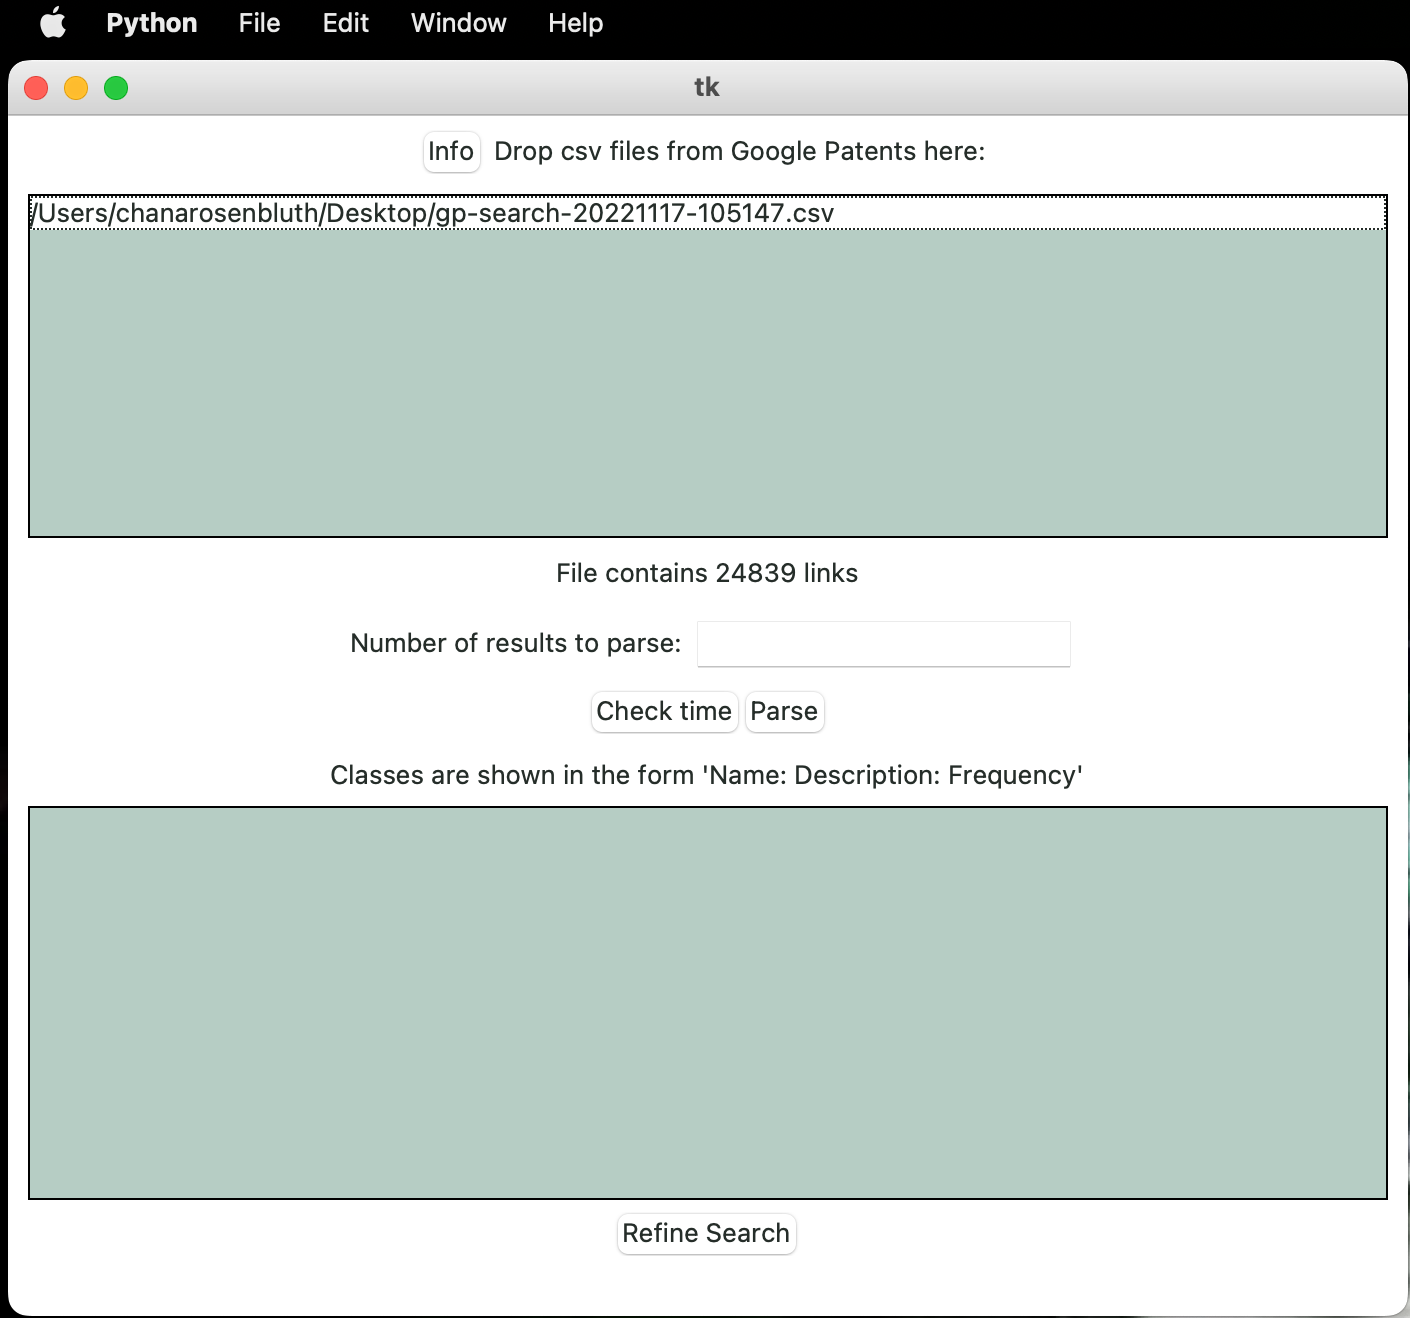
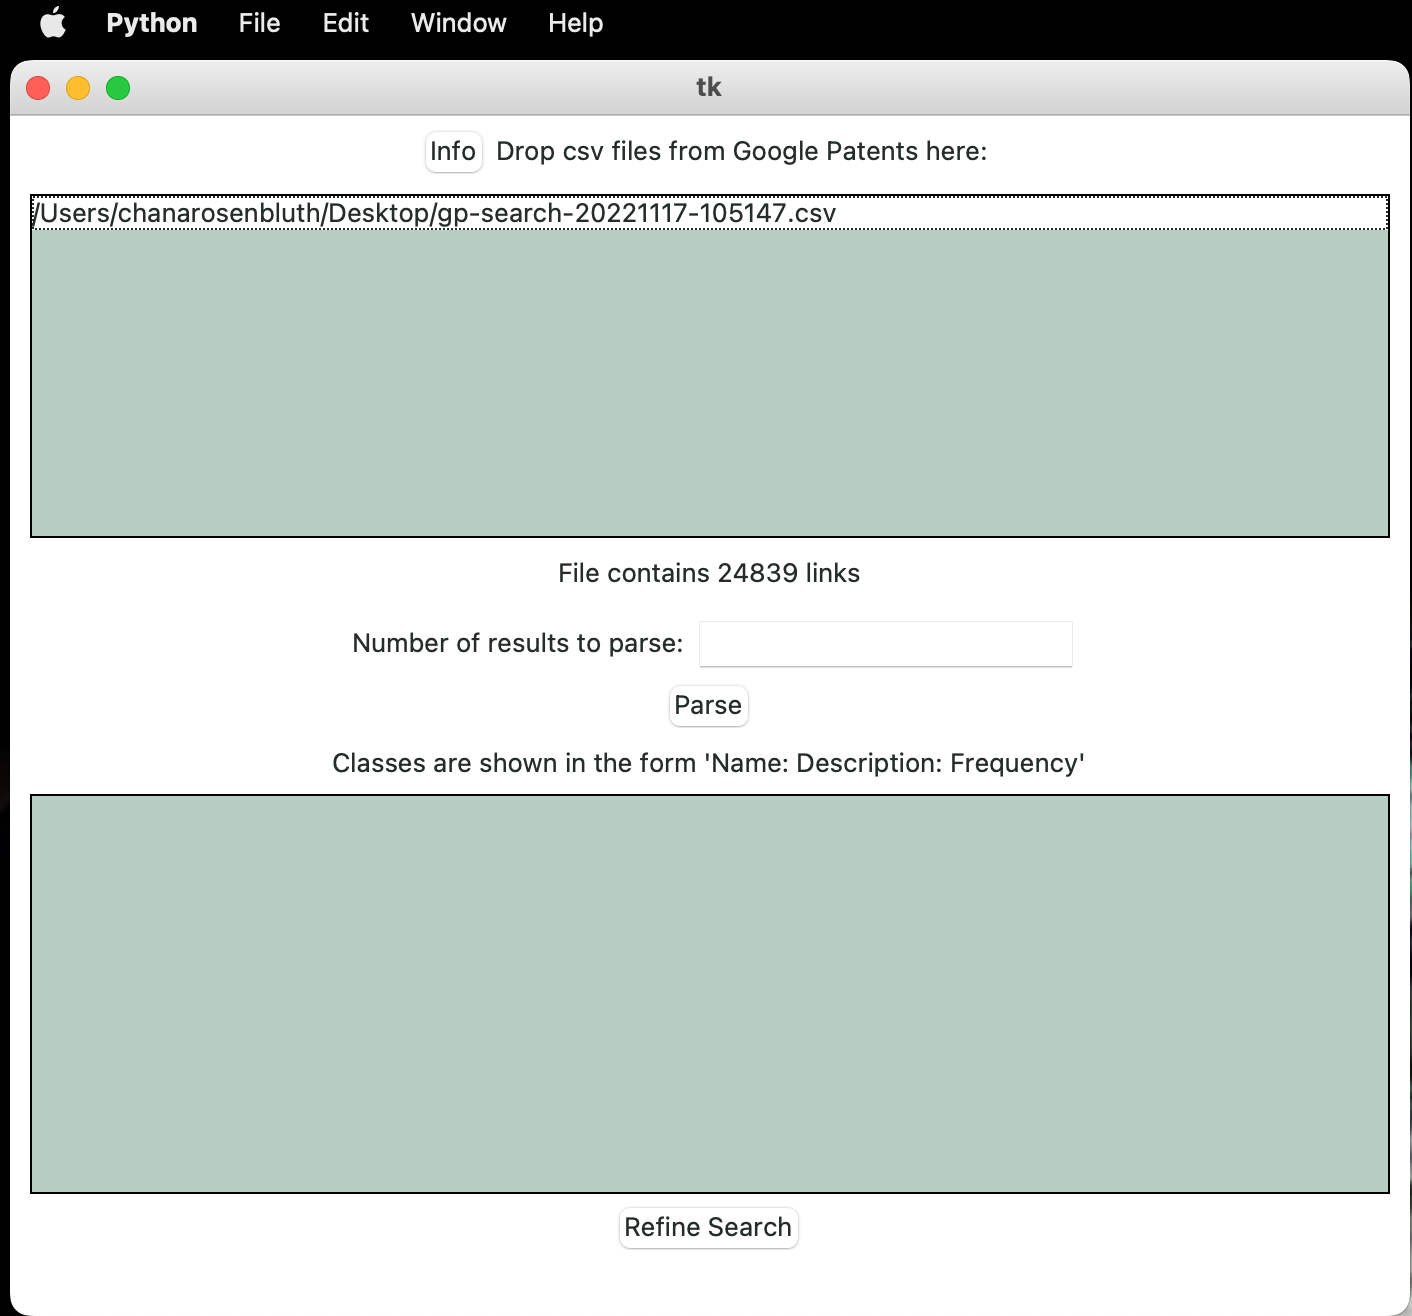
moved parse time warning into an ok/cancel messagebox

diff --git a/SearchApp/GUI.py b/SearchApp/GUI.py
@@ -74,20 +74,11 @@ class App(tk.Frame):
                                   fg=self.DARKGREEN)
         self.entry_box.pack(side=tk.RIGHT)
 
-        # Button area
-        self.button_frame = tk.Frame(self.parse_frame)
-        self.button_frame.pack(pady=3)
-        self.time_btn = tk.Button(self.button_frame,
-                                  text="Check time",
-                                  command=self.check_time,
-                                  fg=self.DARKGREEN)
-        self.time_btn.pack(side=tk.LEFT)
-        self.parse_btn = tk.Button(self.button_frame,
+        self.parse_btn = tk.Button(self.parse_frame,
                                    text="Parse",
                                    command=self.start_parse,
                                    fg=self.DARKGREEN)
-        self.parse_btn.pack(side=tk.RIGHT,
-                            pady=3)
+        self.parse_btn.pack(pady=3)
 
         # Listbox to hold the results of the parse
         self.list_show_label = tk.Label(self.parent,
@@ -143,7 +134,7 @@ class App(tk.Frame):
                         self.links.append(row[link_col])
                     line_count += 1
 
-    def check_time(self):
+    def start_parse(self):
         try:
             number = int(self.entry_box.get())
         except:
@@ -153,20 +144,10 @@ class App(tk.Frame):
                 number = min(number, len(self.links))
                 min_sec = number * self.time_lb
                 max_sec = number * self.time_ub
-                messagebox.showinfo("Info", f'Parsing should take between {min_sec} and {max_sec} seconds')
-            else:
-                messagebox.showerror("Error", "Please select a file to parse.")
-
-    def start_parse(self):
-        try:
-            number = int(self.entry_box.get())
-        except:
-            messagebox.showerror("Error", "Please enter a number of links to parse.")
-        else:
-            if self.links:
-                number = min(number, len(self.links))
-                self.list_show.delete("0", "end")
-                threading.Thread(target=self.parse, args=[number]).start()
+                if messagebox.askokcancel("askokcancel",
+                                          f'Parsing should take between {min_sec} and {max_sec} seconds. Continue?'):
+                    self.list_show.delete("0", "end")
+                    threading.Thread(target=self.parse, args=[number]).start()
             else:
                 messagebox.showerror("Error", "Please select a file to parse")
 
@@ -228,8 +209,8 @@ class InfoWindow(tk.Frame):
         self.label4.bind('<Configure>', lambda e: self.label4.config(wraplength=self.label4.winfo_width()))
 
         self.label5 = tk.Label(self.parent,
-                               text="4. Choose a number of results to parse. You can check how long the parsing will "
-                                    "take by pressing the 'Check time' button.",
+                               text="4. Choose a number of results to parse. You will be shown how long the parsing "
+                                    "will take and may decide to cancel.",
                                fg=self.DARKGREEN)
         self.label5.pack(anchor="w")
         self.label5.bind('<Configure>', lambda e: self.label5.config(wraplength=self.label5.winfo_width()))

diff --git a/README.md b/README.md
@@ -10,6 +10,7 @@ This project uses the following:
 
 ![InitalPage](screenshots/InitialPage.png)
 ![FileSelected](screenshots/FileSelected.png)
+![ParseWarning](screenshots/ParseWarning.png)
 ![FileParsed](screenshots/FileParsed.png)
 ![RefineSearch](screenshots/RefineSearch.png)
 ![Instructions](screenshots/Instructions.png)
